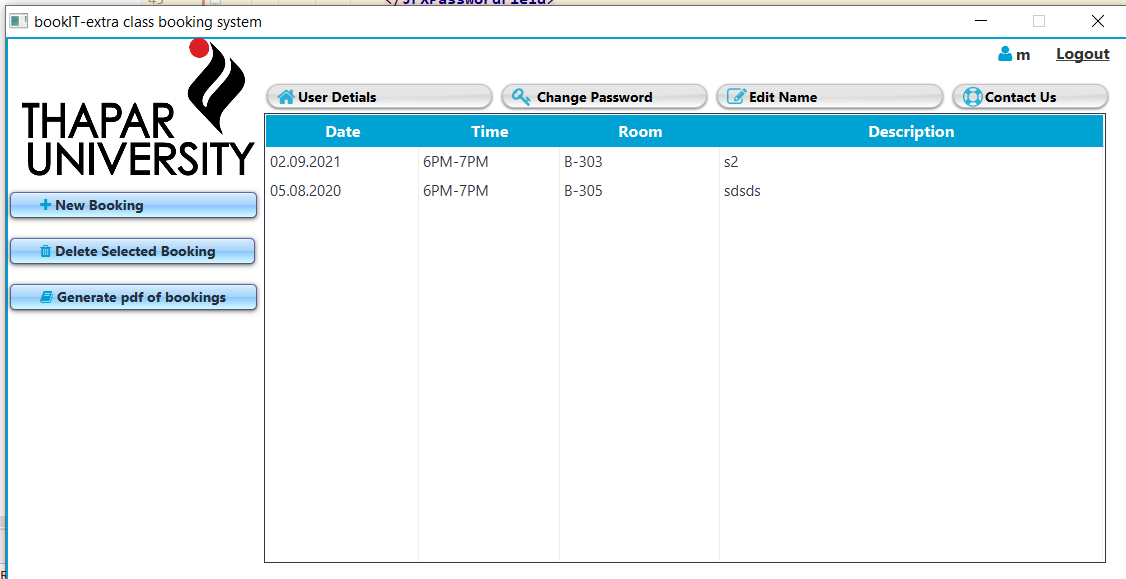
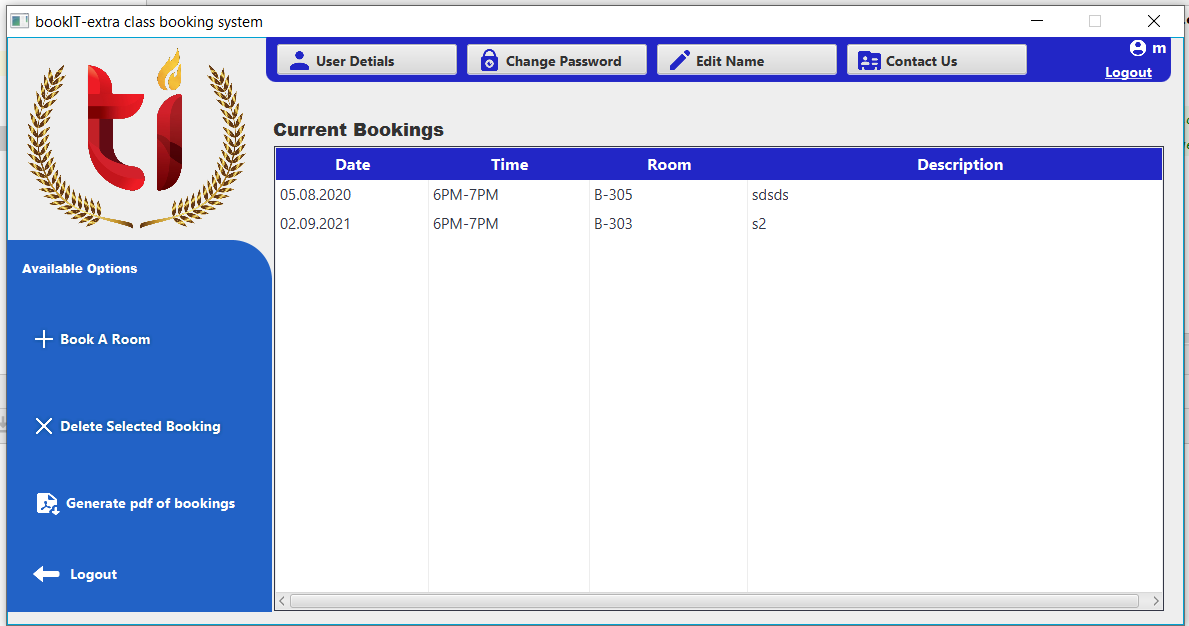
new files changed

diff --git a/README.md b/README.md
@@ -1,1 +1,6 @@
-**__**A Class Booking System for use of teachers to book classes, labs , consferences for their use as per their timetable to avoid conflicts.
+**A Class Booking System for use of teachers to book classes, labs , consferences for their use as per their timetable to avoid conflicts.**
+
+LOGIN PAGE
+
+![LOGIN PAGE](https://github.com/kanchitbajaj8070/RoomBookingManagementSystem/blob/master/src/main/resources/images/login.PNG)
+![DASHBOARD PAGE](https://github.com/kanchitbajaj8070/RoomBookingManagementSystem/blob/master/src/main/resources/images/dashboard.PNG)
